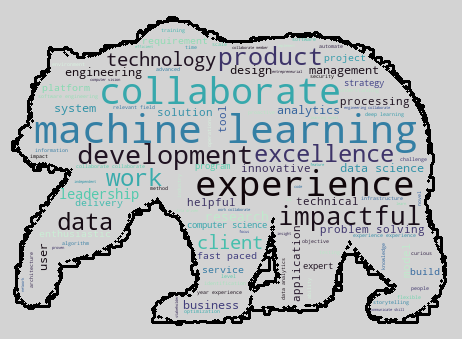
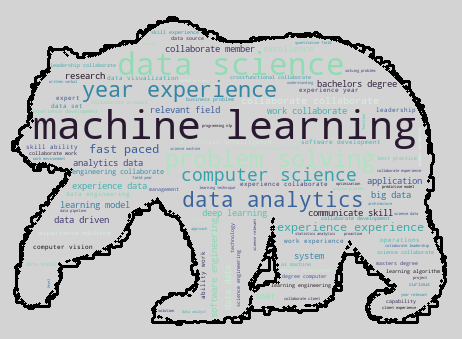
completed final testing of bigram percentage vizs

Changed region(s): [[0.0606, 0.0885, 0.9697, 0.944], [0.0303, 0.708, 0.2121, 0.8555]]

diff --git a/nlp_main.py b/nlp_main.py
@@ -4064,7 +4064,7 @@ def visualize_subtopic(df, df_jobs_raw, terms_for_nlp, subtopic_list, unique_tit
                 indices = np.where(np.isin(bigram_match_to_subtopic_list, list(set(bigram_match_to_subtopic_list).intersection(set(possible_bigrams)))))
                 output[i, indices] = True
             return list(output.T)
-        # CHECK HERE FOR AN EMPTY df_jobs_bigrams_sns dataframe    
+  
         output = find_bigram_match_to_soft_list(df_jobs_bigrams['job_description'].to_numpy())
         
         if len(output) != 0:
@@ -4137,9 +4137,7 @@ def visualize_subtopic(df, df_jobs_raw, terms_for_nlp, subtopic_list, unique_tit
         # calculate a percentages field
         df_jobs_combined_sns['percentage'] = [round(x / len(df_jobs_raw)*100, 2) for x in df_jobs_combined_sns['count']]
         df_jobs_combined_sns = df_jobs_combined_sns.sort_values('percentage', ascending=False).reset_index(drop=True)
-#### THERE IS A PROBELEM WITH THE LINE ABOVE, WHICH HAS THE JOB DESCRIPTIONS RECORD IN IT   
-#### THE job_description row is still in there and 
-#### PROBABLY CAN JUST SKIP THIS ENTIRE FUNCTION IF THERE ARE NO BIGRAMS; maybe pass a flag from monograms_by_percentage     
+    
         # drop all subtopic terms and phrases that do not appearin df_jobs_combined_sns
         df_jobs_combined_sns = df_jobs_combined_sns.loc[(df_jobs_combined_sns.T !=0).any()]
         
@@ -4175,9 +4173,7 @@ def visualize_subtopic(df, df_jobs_raw, terms_for_nlp, subtopic_list, unique_tit
                     ha='left',
                     in_layout=True,
                     wrap=True)
-    
-    # subtopic_list = subtopic_dl_frameworks
-    # viz_title = 'testing testing'
+
     bigram_match_to_subtopic_list = monograms_by_count()
     df_jobs_mono = monograms_by_percentage()
     df_jobs_bigrams = bigrams_by_percentage()
@@ -5421,7 +5417,7 @@ def nlp_skill_lists(additional_stopwords):
                        'pytorch', 'pyunit', 'rasa', 'requests', 'scipy', 'scrapy', 'sdk',
                        'seaborn', 'selenium', 'simpleitk', 'skimage', 'sklearn', 'sonnet', 'spacy', 
                        'sqlalchemy', 'statsmodels', 'tensorflow', 'textblob', 'theano', 'word2vec',
-                       'xgboost', 'zookeeper', 'collaborate work', 'work collaborate'] 
+                       'xgboost', 'zookeeper']  # , 'collaborate work', 'work collaborate'
     
     subtopic_r = ['bioconductor', 'caret', 'dataexplorer', 'datatable', 'dplyr', 'e1071', 'esquisse' , 'ggplot',
                   'janitor', 'kernlab', 'knitr', 'lattice', 'lubridate', 'mboost', 'mlr3', 'plotly', 'purr',
@@ -5627,14 +5623,14 @@ def main_program(csv_path):
                                                        ds_prof_skill_terms, terms_for_nlp, series_of_interest,
                                                        additional_stopwords, term_fixes, df)
 
-####### !!!!!!!! WORKING HERE: create flags for empty lists from subtopics; at end, redact dummy bigrams from subtopic python list  
+####### !!!!!!!! WORKING HERE:   EXECUCTING FULL TEST AGAINST LARGER DATASET
 ####### Will need to make smarter titles for the subtopic plots so you can tell them apart; might be a new arg to pass in
     # visualize subtopics as horizonal bar plots
     visualize_subtopic(df, df_jobs_raw, terms_for_nlp, subtopic_python, unique_titles_viz, viz_title='Python Subtopic')
-    # visualize_subtopic(df, df_jobs_raw, terms_for_nlp, subtopic_languages, unique_titles_viz, viz_title='Programming Language Subtopic')
-    # visualize_subtopic(df, df_jobs_raw, terms_for_nlp, subtopic_dl_frameworks, unique_titles_viz, viz_title='Deep Learning Frameworks Subtopic')
-    # visualize_subtopic(df, df_jobs_raw, terms_for_nlp, subtopic_viz, unique_titles_viz, viz_title='Visualization Tooling Subtopic')
-    # visualize_subtopic(df, df_jobs_raw, terms_for_nlp, subtopic_aws, unique_titles_viz, viz_title='AWS Subtopic')
+    visualize_subtopic(df, df_jobs_raw, terms_for_nlp, subtopic_languages, unique_titles_viz, viz_title='Programming Language Subtopic')
+    visualize_subtopic(df, df_jobs_raw, terms_for_nlp, subtopic_dl_frameworks, unique_titles_viz, viz_title='Deep Learning Frameworks Subtopic')
+    visualize_subtopic(df, df_jobs_raw, terms_for_nlp, subtopic_viz, unique_titles_viz, viz_title='Visualization Tooling Subtopic')
+    visualize_subtopic(df, df_jobs_raw, terms_for_nlp, subtopic_aws, unique_titles_viz, viz_title='AWS Subtopic')
     
     return df, series_of_interest, terms_for_nlp, additional_stopwords, term_fixes, n_grams, ds_cred_terms, df_raw
 
@@ -5775,21 +5771,6 @@ del start_time, end_time
 # e = df_jobs['job_description'].explode()
 # df_jobs[ds_cred_terms] = pd.concat([e.eq(t).groupby(level=0).any().rename(t) for t in ds_cred_terms], axis=1)
 # print(time.time() - start_time)
-
-# start_time = time.time()
-# e = df_jobs['job_description'].explode()
-# df_jobs[ds_cred_terms] = pd.concat([e.eq(t).rename(t) for t in ds_cred_terms], axis=1).groupby(level=0).any()
-# print(time.time() - start_time)
-
-
-# # MY IMPLEMENTATION AND YES THIS WORKS!!
-# def find_bigram_match_to_cred_list(data):
-#     output = np.zeros((data.shape[0], len(bigram_match_to_cred_list)), dtype=bool)
-#     for i, d in enumerate(data):
-#         possible_bigrams = [' '.join(x) for x in list(nltk.bigrams(d)) + list(nltk.bigrams(d[::-1]))]
-#         indices = np.where(np.isin(bigram_match_to_cred_list, list(set(bigram_match_to_cred_list).intersection(set(possible_bigrams)))))
-#         output[i, indices] = True
-#     return list(output.T)
 
 # output = find_bigram_match_to_cred_list(df_jobs['job_description'].to_numpy())
 # df_jobs = df_jobs.assign(**dict(zip(bigram_match_to_cred_list, output)))
